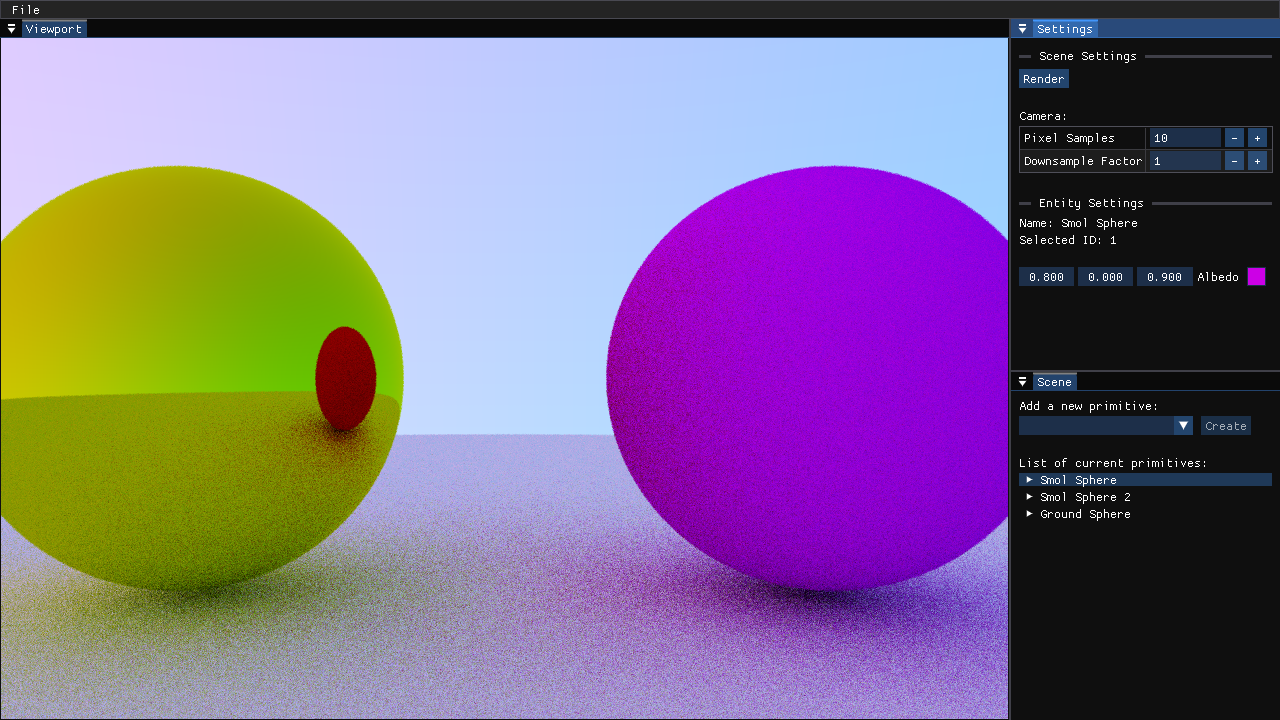
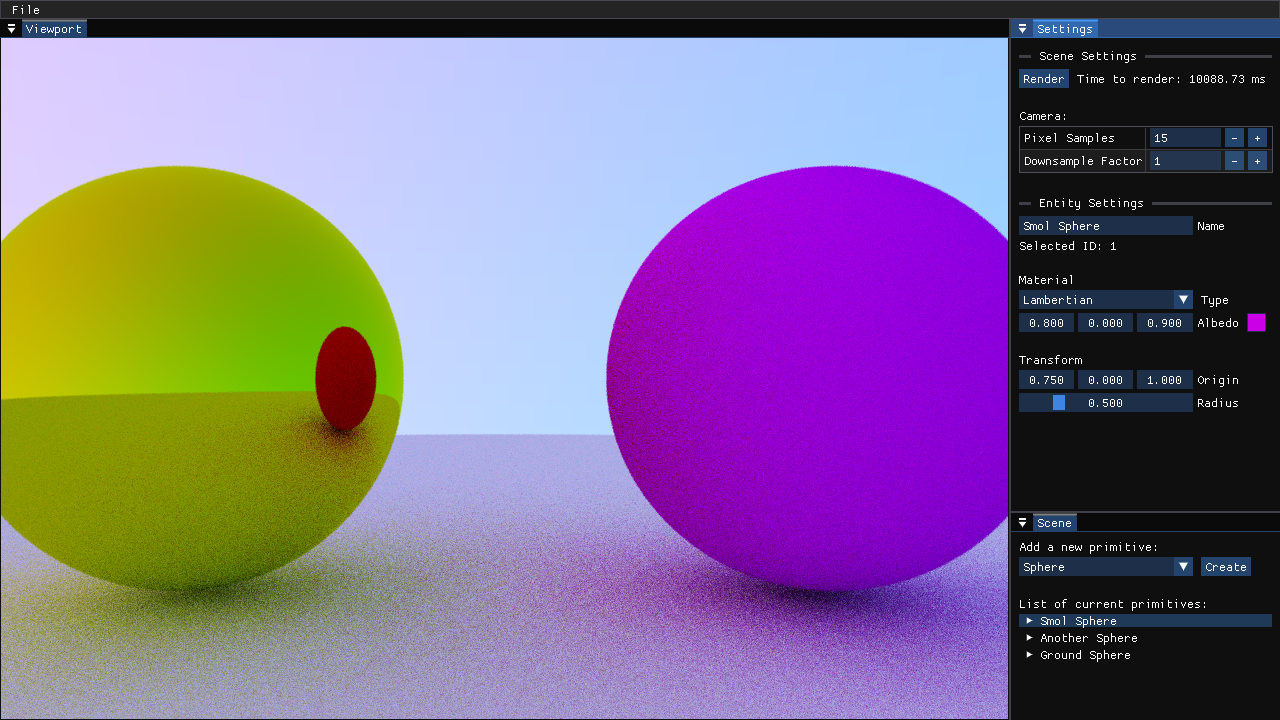
added a timer ui

Changed region(s): [[0.0, 0.275, 1.0, 1.0], [0.7812, 0.275, 1.0, 0.4583], [0.7812, 0.4889, 1.0, 0.6111]]

diff --git a/src/engine/core/timer.cpp b/src/engine/core/timer.cpp
@@ -14,7 +14,9 @@ void Timer::Start() {
   m_StartTimepoint = std::chrono::high_resolution_clock::now();
 }
 
-void Timer::End(std::string_view opName) {
+double Timer::End(std::string_view opName, bool output) {
+  if(m_StartTimepoint == TimePoint {}) return m_LastResult;
+
   auto endTimepoint = std::chrono::high_resolution_clock::now();
 
   auto start =
@@ -29,7 +31,15 @@ void Timer::End(std::string_view opName) {
   auto duration = end - start;
   double ms = static_cast<double>(duration) * 0.001;
 
-  std::cout << opName << " took " << ms << " ms\n";
+  m_LastResult = ms;
+
+  if(output)
+    std::cout << opName << " took " << ms << " ms\n";
+
+  // reset
+  m_StartTimepoint = TimePoint{};
+
+  return ms;
 }
 
 }  // namespace PT

diff --git a/include/engine/core/timer.hpp b/include/engine/core/timer.hpp
@@ -14,10 +14,13 @@ class Timer {
   ~Timer();
 
   void Start();
-  void End(std::string_view opName = "X");
+  double End(std::string_view opName = "X", bool output = true);
 
  private:
   std::chrono::time_point<std::chrono::high_resolution_clock> m_StartTimepoint;
+  double m_LastResult = 0.0;
 };
+
+using TimePoint = const std::chrono::time_point<std::chrono::steady_clock>;
 
 }  // namespace PT

diff --git a/src/viewer/panels/settings_panel.cpp b/src/viewer/panels/settings_panel.cpp
@@ -32,6 +32,10 @@ void SettingsPanel::Render() {
 
   if (ImGui::Button("Render")) {
     GlobalEventFlags.RenderNow = true;
+    m_Timer.Start();
+  } else {
+    ImGui::SameLine();
+    ImGui::Text("Time to render: %.2f ms", m_Timer.End("", false));
   }
 
   CategorySeparator();

diff --git a/src/viewer/panels/settings_panel.hpp b/src/viewer/panels/settings_panel.hpp
@@ -18,6 +18,9 @@ class SettingsPanel : public Panel {
 
   static void RenderEntityMaterialSettings(PT::Primitive& primitive);
   static void RenderEntityTransformSettings(PT::Primitive& primitive);
+
+ private:
+  PT::Timer m_Timer;
 };
 
 }  // namespace Viewer
